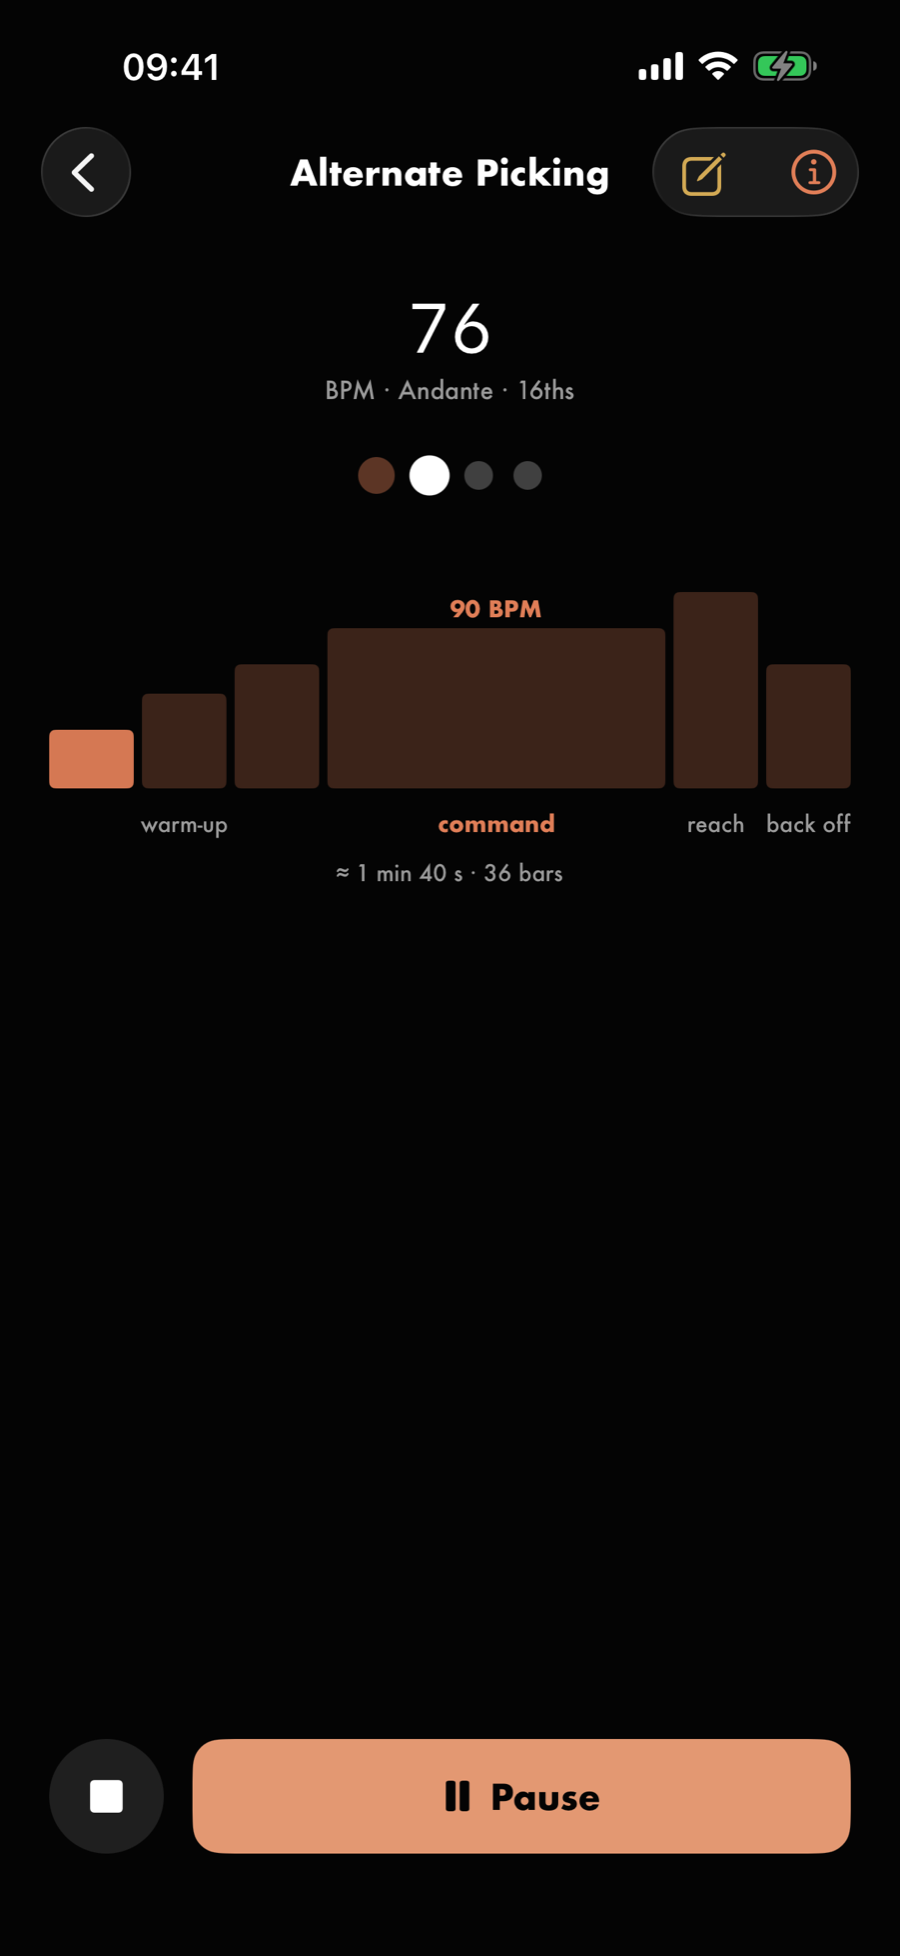
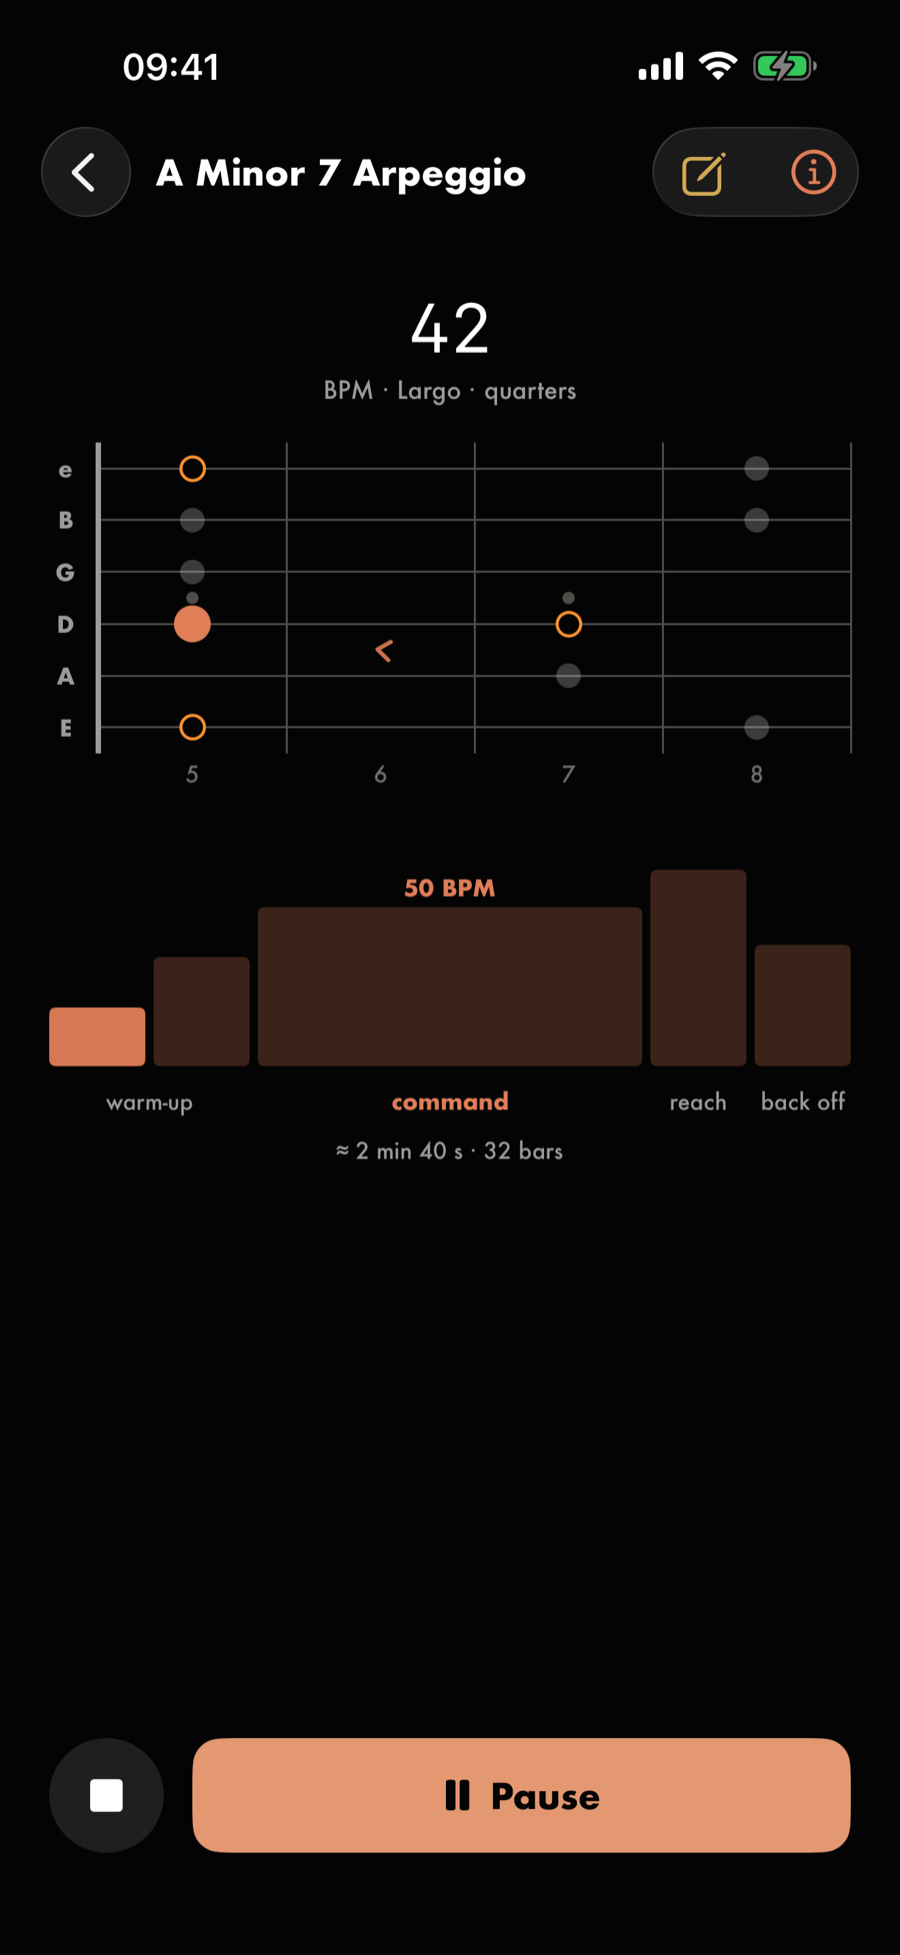
Build it up: an arpeggio drawing the neck, not a tempo drill over half a phone of black
The drill is made through New exercise on the Pro Max (AppStoreShots.testBuildItUpArpeggio
on main), since a fresh install has no arpeggio. Same headline and line: the staircase is
still on the screen. The listing's frame 02 owes the same change at 1.6.

Changed region(s): [[0.0311, 0.156, 0.9644, 0.5928], [0.1867, 0.0624, 0.6844, 0.1248], [0.3733, 0.1872, 0.4044, 0.2184]]

diff --git a/app/page.tsx b/app/page.tsx
@@ -23,11 +23,13 @@ export const metadata: Metadata = {
 }
 
 // Show, don't tell: each idea is one screen and one line. The kickers and headlines are the App Store
-// frames' own (appstore-2026-11-16/frames.json), so the site and the listing say the same thing; the
-// detail they used to carry lives in the manual now. One exception, and the site leads on it: the Journal
-// is the fourth chapter, and the take it replaced took the loop ramp's place in the rail. The listing's
-// screenshots can't change until 1.5 is submitted, so frame 04 becomes the Journal and frame 07 the take
-// then. The Journal is the manual's `journal/timeline`, shot on the Pro Max with the other frames (11-16).
+// frames' own (appstore-2026-11-16/frames.json), so the site and the listing say the same thing. The site
+// leads the listing where a frame is owed a change it can only take with a new version: the Journal is the
+// fourth chapter, and the take it replaced took the loop ramp's place in the rail (frames 04 and 07, owed
+// since 11-18); and Build it up is an arpeggio drawing its neck rather than a tempo drill over half a
+// phone of black (frame 02, 11-24: `AppStoreShots.testBuildItUpArpeggio` on main, the drill made through
+// New exercise as a player makes it). The Journal is the manual's `journal/timeline`, shot on the Pro Max
+// with the other frames (11-16).
 type Shot = { kicker: string; title: string; image: StaticImageData; alt: string }
 
 const CHAPTERS: Array<Shot & { line: string }> = [
@@ -43,7 +45,7 @@ const CHAPTERS: Array<Shot & { line: string }> = [
     title: 'Every drill runs against a click.',
     line: 'Tap in a tempo and let the automator raise it, by bars or by time.',
     image: drill,
-    alt: 'An alternate-picking drill running at 76 BPM, stepping up a tempo staircase toward 90.',
+    alt: 'An A minor 7 arpeggio drill running at 42 BPM, the note being played lit on the neck above a tempo staircase climbing toward 50.',
   },
   {
     kicker: 'Run it',
